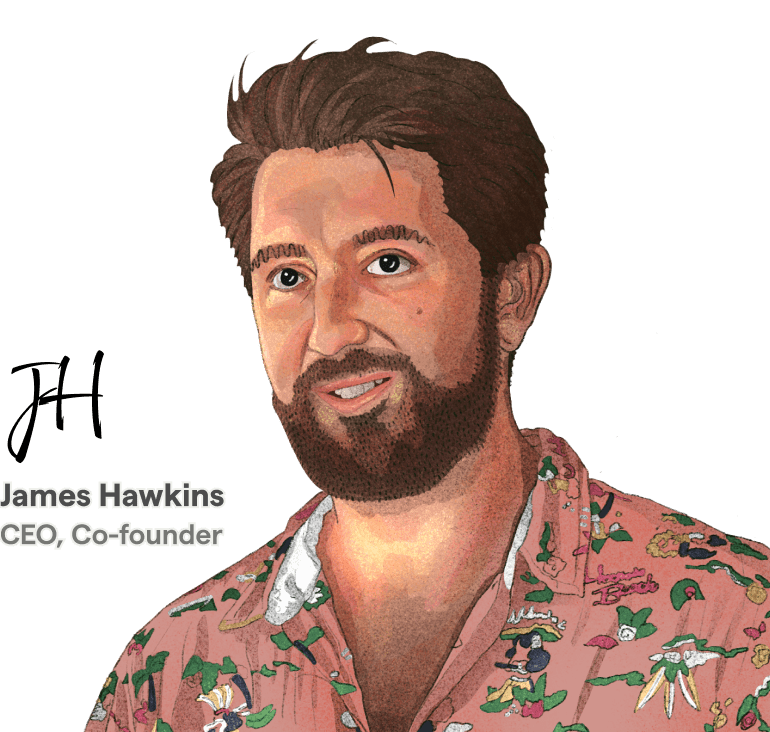
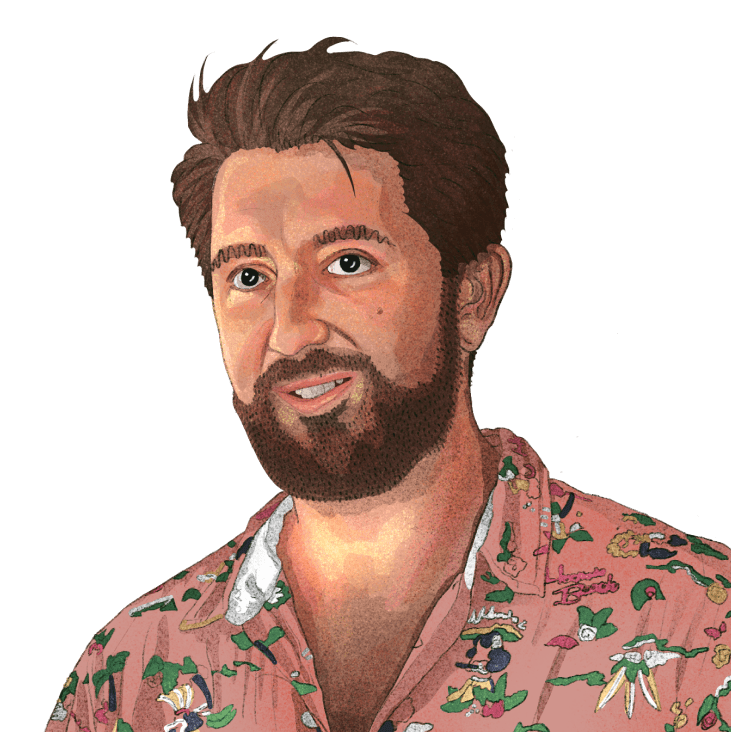
making "our story" work in dark mode

Changed region(s): [[0.0, 0.0301, 1.0, 1.0], [0.0, 0.4809, 0.1505, 0.6311]]

diff --git a/src/components/About/AboutStory/images/signatures.tsx b/src/components/About/AboutStory/images/signatures.tsx
@@ -1,0 +1,30 @@
+import React from 'react'
+
+export const James = ({ className = '', ...other }: { className?: string }): JSX.Element => (
+    <svg
+        className={`fill-current ${className}`}
+        fill="none"
+        xmlns="http://www.w3.org/2000/svg"
+        width="86"
+        height="52"
+        {...other}
+    >
+        <path d="M2.82 7.072c-.063 0-.095-.112-.095-.336 0-.288.032-.64.096-1.056.096-.416.192-.784.288-1.104.128-.352.24-.544.336-.576 1.248-.544 2.832-1.04 4.752-1.488a50.496 50.496 0 0 1 6.24-1.104 49.037 49.037 0 0 1 6.336-.432c.928 0 1.904.048 2.928.144 1.056.096 1.936.224 2.64.384.736.16 1.104.352 1.104.576 0 .032-.032.048-.096.048a51.01 51.01 0 0 0-2.304-.048c-.8-.032-1.632-.048-2.496-.048-2.368 0-4.8.24-7.296.72a45.16 45.16 0 0 0-6.96 1.824c-2.176.736-3.984 1.568-5.424 2.496H2.82Zm4.417 44.496a4.106 4.106 0 0 1-1.728-.912c-.512-.416-.768-.848-.768-1.296v-.192l.096-.192c0-.064.016-.096.048-.096h-.048c-.256 0-.464-.064-.624-.192-1.184-.832-2.048-1.808-2.592-2.928-.544-1.12-.816-2.336-.816-3.648 0-1.632.352-3.376 1.056-5.232.704-1.824 1.664-3.664 2.88-5.52a47.152 47.152 0 0 1 4.128-5.472 59.321 59.321 0 0 1 4.8-4.992 60.602 60.602 0 0 0 .384-6.768 46.56 46.56 0 0 0-.288-5.328c-.192-1.696-.496-3.2-.912-4.512 0-.16.288-.24.864-.24.544 0 1.12.112 1.728.336.64.224 1.008.64 1.104 1.248.128.8.224 1.648.288 2.544.064.864.096 1.76.096 2.688 0 1.216-.048 2.48-.144 3.792a54.666 54.666 0 0 1-.336 3.888 41.035 41.035 0 0 1 4.176-2.88c1.376-.832 2.64-1.44 3.792-1.824a1.41 1.41 0 0 1 .336-.048.906.906 0 0 1 .288-.048c.416 0 .624.112.624.336 0 .096-.08.208-.24.336a33.478 33.478 0 0 0-4.704 2.496 42.462 42.462 0 0 0-4.464 3.216c-.384 2.912-.88 5.84-1.488 8.784a177.54 177.54 0 0 1-1.92 8.256 264.453 264.453 0 0 1-1.872 6.96 94.478 94.478 0 0 1-1.008 3.408c-.256.928-.592 1.696-1.008 2.304-.384.64-.96 1.216-1.728 1.728ZM5.46 47.584c1.824-4.032 3.552-8.368 5.184-13.008.64-1.856 1.2-3.792 1.68-5.808.48-2.048.848-4.096 1.104-6.144a48.94 48.94 0 0 0-5.52 6.336c-1.632 2.208-2.912 4.4-3.84 6.576-.928 2.176-1.392 4.208-1.392 6.096 0 1.184.224 2.288.672 3.312.448 1.024 1.152 1.904 2.112 2.64ZM44.374 35.248c-.192 0-.48-.08-.864-.24a4.441 4.441 0 0 1-1.104-.672c-.32-.256-.544-.544-.672-.864-.224-.544-.368-1.296-.432-2.256a50.971 50.971 0 0 1-.096-3.264v-1.824c0-.64.016-1.28.048-1.92-.384.736-.912 1.552-1.584 2.448-.64.896-1.312 1.76-2.016 2.592-.704.832-1.36 1.52-1.968 2.064-.576.512-.992.768-1.248.768-.352 0-.736-.128-1.152-.384-.416-.288-.704-.592-.864-.912 0-.736.096-1.744.288-3.024.192-1.28.4-2.592.624-3.936.256-1.376.48-2.544.672-3.504a95.085 95.085 0 0 1-1.968 2.928 45.216 45.216 0 0 1-2.256 2.976c-.768.896-1.552 1.648-2.352 2.256-.768.576-1.488.864-2.16.864-.672 0-1.2-.224-1.584-.672a2.543 2.543 0 0 1-.576-1.632c0-.16.032-.368.096-.624a11.598 11.598 0 0 1 1.68-4.128 18.17 18.17 0 0 1 2.928-3.456c1.12-.992 2.224-1.776 3.312-2.352 1.088-.576 2.016-.864 2.784-.864a3.6 3.6 0 0 1 1.632.384c.544.224 1.056.608 1.536 1.152a.46.46 0 0 1 .144.336c0 .16-.096.32-.288.48a55.714 55.714 0 0 0-.72 2.784c-.224 1.056-.448 2.16-.672 3.312a85.201 85.201 0 0 0-.48 3.12c-.128.96-.192 1.696-.192 2.208 0 .352.048.528.144.528.128 0 .448-.24.96-.72a35.057 35.057 0 0 0 1.824-1.872c.672-.768 1.328-1.536 1.968-2.304a49.806 49.806 0 0 0 1.536-1.92l.096-3.024a91.16 91.16 0 0 0 .048-2.832c0-.512-.016-.992-.048-1.44 0-.448-.016-.848-.048-1.2-.064-.064-.256-.112-.576-.144a8.108 8.108 0 0 0-.864-.144l-.384-.096c0-.064.24-.208.72-.432.512-.256 1.232-.384 2.16-.384.928 0 1.536.176 1.824.528.288.352.432.656.432.912v.288a.906.906 0 0 1-.048.288 44.696 44.696 0 0 0-.864 6.48 93.484 93.484 0 0 0-.144 3.6c.032-.096.176-.592.432-1.488.288-.928.752-2.368 1.392-4.32.512-1.632.928-2.688 1.248-3.168.32-.512.592-.784.816-.816a5.8 5.8 0 0 0 .528.192c.288.096.576.256.864.48.288.192.432.448.432.768v.096a68.663 68.663 0 0 0-.624 4.032c-.16 1.504-.24 2.96-.24 4.368 0 .896.032 1.728.096 2.496.096.768.256 1.392.48 1.872 0-.128.096-.544.288-1.248.224-.704.48-1.504.768-2.4.288-.928.56-1.808.816-2.64l.576-1.872c.256-.768.48-1.28.672-1.536.224-.256.528-.384.912-.384.544 0 .928.336 1.152 1.008.256.64.416 1.44.48 2.4s.112 1.92.144 2.88c.032.96.096 1.776.192 2.448.128.64.368.96.72.96.416 0 .848-.304 1.296-.912a17.5 17.5 0 0 0 1.296-2.208c.448-.832.848-1.552 1.2-2.16.352-.64.624-.96.816-.96.096 0 .144.08.144.24 0 .128-.048.336-.144.624a72.461 72.461 0 0 1-1.44 3.264c-.512 1.088-1.04 2-1.584 2.736-.544.736-1.12 1.104-1.728 1.104-.768 0-1.376-.224-1.824-.672-.32-.288-.576-.816-.768-1.584-.192-.8-.352-1.632-.48-2.496-.128-.864-.256-1.6-.384-2.208-.096-.64-.208-.96-.336-.96-.096 0-.24.288-.432.864-.16.544-.336 1.232-.528 2.064-.192.832-.384 1.68-.576 2.544-.16.832-.304 1.568-.432 2.208-.096.64-.144 1.04-.144 1.2 0 .384-.176.608-.528.672-.32.064-.736.096-1.248.096-.224 0-.448-.352-.672-1.056-.224-.736-.432-1.664-.624-2.784a58.191 58.191 0 0 1-.384-3.648 47.726 47.726 0 0 1-.144-3.552v-.96c0-.32.016-.608.048-.864-.288.896-.624 1.968-1.008 3.216a39.12 39.12 0 0 0-1.008 3.936 24.375 24.375 0 0 0-.384 4.368c0 .768.064 1.392.192 1.872.128.448.32.88.576 1.296a.426.426 0 0 1 .048.192c0 .096-.064.144-.192.144Zm-18.72-7.68c.448 0 1.008-.256 1.68-.768.704-.512 1.424-1.168 2.16-1.968.768-.8 1.504-1.648 2.208-2.544a26.878 26.878 0 0 0 1.872-2.544c.544-.832.928-1.504 1.152-2.016-.64 0-1.376.24-2.208.72-.832.448-1.68 1.04-2.544 1.776a18.5 18.5 0 0 0-2.4 2.352c-.736.832-1.328 1.648-1.776 2.448-.448.8-.672 1.488-.672 2.064 0 .32.176.48.528.48Z" />
+        <path d="M63.873 33.232c-1.088 0-1.936-.352-2.544-1.056-.576-.704-.976-1.6-1.2-2.688a19.852 19.852 0 0 1-.288-3.36c0-.768.032-1.488.096-2.16a55.45 55.45 0 0 1 .192-1.824c.16-1.312.368-2.576.624-3.792.256-1.216.496-2.256.72-3.12.256-.864.416-1.424.48-1.68.128-.448.368-.672.72-.672s.752.24 1.2.72c.448.448.768.816.96 1.104.736.224 1.456.496 2.16.816.704.288 1.28.608 1.728.96.48.352.72.736.72 1.152 0 .8-.336 1.6-1.008 2.4-.672.8-1.52 1.536-2.544 2.208a23.142 23.142 0 0 1-3.12 1.728 18.558 18.558 0 0 0-.144 2.304c0 1.28.16 2.4.48 3.36.32.96.864 1.44 1.632 1.44.672 0 1.312-.24 1.92-.72a8.77 8.77 0 0 0 1.776-1.824 21.616 21.616 0 0 0 1.44-2.208c.448-.768.784-1.408 1.008-1.92.064-.192.208-.288.432-.288.128 0 .192.144.192.432 0 .256-.192.8-.576 1.632a35.882 35.882 0 0 1-1.2 2.208 17.133 17.133 0 0 1-1.152 1.776 13.52 13.52 0 0 1-2.016 2.064 3.955 3.955 0 0 1-2.688 1.008Zm-.96-10.608a13.65 13.65 0 0 0 2.976-2.16c.896-.864 1.344-1.792 1.344-2.784 0-.352-.272-.704-.816-1.056a7.014 7.014 0 0 0-1.824-.96 30.05 30.05 0 0 0-1.008 3.264 51.333 51.333 0 0 0-.672 3.696ZM74.562 31.696c-.48 0-1.024-.064-1.632-.192a8.557 8.557 0 0 1-1.536-.576c-.416-.256-.624-.496-.624-.72 0-.512.48-.768 1.44-.768.544 0 1.184-.112 1.92-.336a20.855 20.855 0 0 0 2.016-.72c.64-.288 1.056-.496 1.248-.624-.128-.192-.432-.48-.912-.864a30.83 30.83 0 0 1-1.584-1.488 11.235 11.235 0 0 1-1.536-1.92 4.795 4.795 0 0 1-.624-2.4c0-.896.24-1.728.72-2.496.48-.8 1.072-1.52 1.776-2.16a17.342 17.342 0 0 1 2.208-1.728 42.54 42.54 0 0 1 1.968-1.248c.224-.128.464-.192.72-.192.512 0 .992.176 1.44.528.48.352.72.688.72 1.008 0 .032-.032.112-.096.24-.256.288-.544.736-.864 1.344a17.147 17.147 0 0 0-.768 1.92c-.224.64-.336 1.232-.336 1.776 0 .608-.128.912-.384.912-.128 0-.224-.128-.288-.384a2.976 2.976 0 0 1-.096-.72c0-.64.096-1.328.288-2.064.224-.736.368-1.264.432-1.584-.384 0-.912.256-1.584.768-.64.48-1.296 1.088-1.968 1.824a15.032 15.032 0 0 0-1.728 2.16c-.448.704-.672 1.28-.672 1.728 0 .608.208 1.168.624 1.68.416.48.928.928 1.536 1.344.64.416 1.232.864 1.776 1.344.32-.128.816-.352 1.488-.672a64.92 64.92 0 0 1 2.112-1.056c.768-.384 1.44-.704 2.016-.96.608-.256 1.008-.384 1.2-.384.064 0 .096.016.096.048 0 .224-.24.512-.72.864s-1.072.72-1.776 1.104c-.704.384-1.408.752-2.112 1.104-.672.352-1.2.624-1.584.816.096.288.144.576.144.864 0 .672-.24 1.216-.72 1.632-.448.416-1.024.736-1.728.96a7.308 7.308 0 0 1-2.016.288Z" />
+    </svg>
+)
+
+export const Tim = ({ className = '', ...other }: { className?: string }): JSX.Element => (
+    <svg
+        className={`fill-current ${className}`}
+        fill="none"
+        xmlns="http://www.w3.org/2000/svg"
+        width="57"
+        height="44"
+        {...other}
+    >
+        <path d="M13.483 43.096c-.928 0-1.712-.176-2.352-.528-.608-.32-1.088-.656-1.44-1.008-.352-.352-.56-.576-.624-.672-.064-.128-.096-.208-.096-.24 0-.16.096-.24.288-.24.192 0 .528.16 1.008.48.512.352 1.328.528 2.448.528.544 0 1.104-.096 1.68-.288a4.058 4.058 0 0 0 1.584-.864c.832-.768 1.568-1.92 2.208-3.456.64-1.568 1.2-3.408 1.68-5.52.512-2.112.944-4.4 1.296-6.864.352-2.464.64-4.992.864-7.584.256-2.592.448-5.136.576-7.632a.534.534 0 0 0-.24-.048c-.224.576-.448 1.2-.672 1.872-.224.672-.384 1.008-.48 1.008-.032 0-.048-.096-.048-.288 0-.192.048-.512.144-.96.096-.48.208-1.088.336-1.824a300.911 300.911 0 0 1-7.296-1.728c-2.4-.64-4.592-1.248-6.576-1.824.288.288.576.56.864.816.288.256.432.432.432.528 0 .032-.032.048-.096.048-.352 0-.864-.096-1.536-.288-.64-.224-1.36-.48-2.16-.768-.8-.32-1.568-.624-2.304-.912-.704-.32-1.296-.592-1.776-.816-.448-.256-.672-.4-.672-.432 0-.32.112-.736.336-1.248.192-.512.464-.976.816-1.392.352-.416.704-.624 1.056-.624.032 0 .064.016.096.048h.096c3.04.992 6.208 2.016 9.504 3.072a366.61 366.61 0 0 0 9.744 2.976l.672-3.648c.064-.448.352-.768.864-.96a5.154 5.154 0 0 1 1.728-.288c.64 0 1.04.112 1.2.336.192.224.288.592.288 1.104v.528c0 .192-.016.384-.048.576l-.336 3.552c3.136.8 6.032 1.472 8.688 2.016 2.656.512 4.848.768 6.576.768 1.504 0 2.512-.208 3.024-.624.544-.448.816-1.056.816-1.824 0-1.024-.192-1.76-.576-2.208-.384-.448-.576-.736-.576-.864 0-.032.016-.048.048-.048.096 0 .208.048.336.144.16.064.416.256.768.576.352.288.672.688.96 1.2.32.48.48 1.104.48 1.872 0 .96-.288 1.712-.864 2.256-.576.512-1.36.88-2.352 1.104-.96.192-2.016.288-3.168.288-1.376 0-2.8-.096-4.272-.288-1.44-.192-2.672-.4-3.696-.624-.992-.192-2.032-.4-3.12-.624-1.056-.224-2.16-.464-3.312-.72-.256 2.176-.56 4.432-.912 6.768-.352 2.336-.72 4.56-1.104 6.672a118.08 118.08 0 0 1-1.104 5.376 92.56 92.56 0 0 1-.816 2.88 38.35 38.35 0 0 1-1.344 3.744 23.728 23.728 0 0 1-1.92 3.696c-.704 1.152-1.536 2.096-2.496 2.832-.928.736-1.968 1.104-3.12 1.104Z" />
+        <path d="M32.833 13.24c-.192 0-.4-.032-.624-.096l-.576-.288a.456.456 0 0 1-.192-.384c0-.288.176-.64.528-1.056a4.74 4.74 0 0 1 1.344-1.152c.544-.32 1.072-.48 1.584-.48.288 0 .432.08.432.24 0 .128-.144.288-.432.48a2.168 2.168 0 0 0-.768 1.056c-.16.448-.32.848-.48 1.2-.16.32-.432.48-.816.48ZM30.96 36.664c-.896 0-1.504-.4-1.824-1.2-.32-.832-.48-1.92-.48-3.264 0-1.248.064-2.56.192-3.936.16-1.408.352-2.72.576-3.936.256-1.248.544-2.256.864-3.024.32-.8.64-1.2.96-1.2.352 0 .656.176.912.528.288.32.512.688.672 1.104.192.416.288.752.288 1.008-.192.448-.432 1.168-.72 2.16-.256.96-.512 2.016-.768 3.168l-.624 3.12c-.16.928-.24 1.584-.24 1.968 0 1.152.304 1.728.912 1.728.256 0 .512-.064.768-.192.416-.192.848-.592 1.296-1.2.48-.608.944-1.296 1.392-2.064.448-.8.864-1.568 1.248-2.304a83.14 83.14 0 0 1 .96-1.872c.256-.512.416-.768.48-.768.128 0 .192.128.192.384 0 .288-.112.752-.336 1.392a13.79 13.79 0 0 1-.864 1.872c-.256.48-.576 1.088-.96 1.824a26.401 26.401 0 0 1-1.296 2.208 7.93 7.93 0 0 1-1.632 1.776c-.608.48-1.264.72-1.968.72Z" />
+        <path d="M39.837 40.6c-.256 0-.672-.24-1.248-.72-.576-.448-.944-.976-1.104-1.584-.224-.8-.368-1.856-.432-3.168a88.066 88.066 0 0 1-.096-4.272c0-1.632.016-3.296.048-4.992.032-1.728.048-3.312.048-4.752v-1.92c0-.608-.032-1.136-.096-1.584-.064-.064-.256-.112-.576-.144a8.108 8.108 0 0 0-.864-.144l-.384-.096c0-.064.24-.208.72-.432.512-.256 1.232-.384 2.16-.384.928 0 1.536.176 1.824.528.288.352.432.656.432.912v.288a.906.906 0 0 1-.048.288 44.696 44.696 0 0 0-.864 6.48 93.484 93.484 0 0 0-.144 3.6c.032-.096.176-.592.432-1.488.288-.928.752-2.368 1.392-4.32.512-1.632.928-2.688 1.248-3.168.32-.512.592-.784.816-.816a5.8 5.8 0 0 0 .528.192c.288.096.576.256.864.48.288.192.432.448.432.768v.096a68.663 68.663 0 0 0-.624 4.032c-.16 1.504-.24 2.96-.24 4.368 0 .896.032 1.728.096 2.496.096.768.256 1.392.48 1.872 0-.128.096-.544.288-1.248.224-.704.48-1.504.768-2.4.288-.928.56-1.808.816-2.64l.576-1.872c.256-.768.48-1.28.672-1.536.224-.256.528-.384.912-.384.544 0 .928.336 1.152 1.008.256.64.416 1.44.48 2.4s.112 1.92.144 2.88c.032.96.096 1.776.192 2.448.128.64.368.96.72.96.416 0 .848-.304 1.296-.912a17.5 17.5 0 0 0 1.296-2.208c.448-.832.848-1.552 1.2-2.16.352-.64.624-.96.816-.96.096 0 .144.08.144.24 0 .128-.048.336-.144.624a72.461 72.461 0 0 1-1.44 3.264c-.512 1.088-1.04 2-1.584 2.736-.544.736-1.12 1.104-1.728 1.104-.768 0-1.376-.224-1.824-.672-.32-.288-.576-.816-.768-1.584-.192-.8-.352-1.632-.48-2.496-.128-.864-.256-1.6-.384-2.208-.096-.64-.208-.96-.336-.96-.096 0-.24.288-.432.864-.16.544-.336 1.232-.528 2.064-.192.832-.384 1.68-.576 2.544-.16.832-.304 1.568-.432 2.208-.096.64-.144 1.04-.144 1.2 0 .384-.176.608-.528.672-.32.064-.736.096-1.248.096-.224 0-.448-.352-.672-1.056-.224-.736-.432-1.664-.624-2.784a58.191 58.191 0 0 1-.384-3.648 47.726 47.726 0 0 1-.144-3.552v-.96c0-.32.016-.608.048-.864-.512 1.472-1.04 3.264-1.584 5.376-.544 2.08-.816 4.336-.816 6.768 0 .992.048 1.92.144 2.784.096.864.256 1.536.48 2.016a.534.534 0 0 1 .048.24c0 .128-.064.192-.192.192Z" />
+    </svg>
+)

diff --git a/src/components/About/AboutStory/index.tsx b/src/components/About/AboutStory/index.tsx
@@ -3,6 +3,7 @@ import { StaticImage } from 'gatsby-plugin-image'
 import GitHubButton from 'react-github-btn'
 import { YCBadge } from './yc-badge'
 import { CallToAction } from 'components/CallToAction'
+import { James, Tim } from './images/signatures'
 
 export const AboutStory = () => {
     return (
@@ -38,7 +39,7 @@ export const AboutStory = () => {
                 </div>
             </div>
             <aside className="grow-0 shrink-0 lg:basis-[calc(730px-4rem)] relative">
-                <div className="hidden md:flex justify-end">
+                <div className="hidden md:flex justify-end text-primary dark:text-primary-dark">
                     <YCBadge className="w-[95px] h-[63px] md:mr-12 lg:top-0" />
                 </div>
                 <div className="flex justify-end relative">
@@ -50,9 +51,9 @@ export const AboutStory = () => {
                         objectFit="contain"
                         className="rotate-2 -mb-8 md:-mb-4 md:-right-4 lg:right-0 -mx-4 md:mx-0 box-border md:w-[500px] lg:w-auto md:h-full lg:h-auto"
                     />
-                    <div className="bg-gradient-to-b from-transparent to-tan absolute w-full h-[60%] md:h-full md:top-4em lg:top-[initial] lg:h-[60%] bottom-0" />
+                    <div className="bg-gradient-to-b from-transparent to-tan dark:to-dark absolute w-full h-[60%] md:h-full md:top-12 lg:top-[initial] lg:h-[60%] bottom-0" />
                 </div>
-                <div className="absolute -bottom-8 lg:-bottom-16 left-4 md:-left-8 lg:-left-16">
+                <div className="absolute -bottom-8 lg:-bottom-16 left-4 md:-left-4 lg:-left-4">
                     <StaticImage
                         breakpoints={[750, 1080, 1366, 1920]}
                         src="./images/james.png"
@@ -65,18 +66,28 @@ export const AboutStory = () => {
                         className="w-[55vw] md:w-[300px] lg:w-auto"
                     />
                 </div>
-                <div className="absolute bottom-0 lg:-bottom-2 right-4 md:right-4 lg:right-8">
+                <div className="text-primary dark:text-primary-dark absolute bottom-6 md:bottom-12 lg:bottom-6 left-4 md:-left-16 leading-tight">
+                    <James />
+                    <strong>James Hawkins</strong>
+                    <span className="block text-sm">CEO, Co-founder</span>
+                </div>
+                <div className="absolute bottom-0 lg:-bottom-2 right-0 sm:right-12 lg:right-8">
                     <StaticImage
                         breakpoints={[750, 1080, 1366, 1920]}
                         src="./images/tim.png"
-                        width={366}
+                        width={285}
                         height={320}
                         quality={100}
                         alt="Tim Glaser, CTO, Co-founder"
                         placeholder="none"
                         objectFit="contain"
-                        className="w-[50vw] md:w-[300px] lg:w-auto"
+                        className="w-[40vw] md:w-[230px] lg:w-auto"
                     />
+                </div>
+                <div className="absolute bottom-8 md:bottom-16 lg:bottom-16 -right-4 text-primary dark:text-primary-dark leading-tight">
+                    <Tim />
+                    <strong>Tim Glaser</strong>
+                    <span className="block text-sm">CTO, Co-founder</span>
                 </div>
             </aside>
         </section>

diff --git a/src/components/About/AboutStory/yc-badge.tsx b/src/components/About/AboutStory/yc-badge.tsx
@@ -16,7 +16,7 @@ export const YCBadge = ({ className }: { className: string }): JSX.Element => {
                 fill="#000"
             />
             <rect x=".5" y=".5" width="93.804" height="41" rx="1.5" stroke="#FB651E" />
-            <g opacity=".5" fill="#000">
+            <g opacity=".75" fill="currentColor">
                 <path d="M38.879 62h-1.066l-.52-6.539a29.367 29.367 0 0 1-.065-1.521 20.73 20.73 0 0 1-.351 1.404L34.966 62h-.91l-1.768-6.331a28.81 28.81 0 0 1-.442-1.742c-.026.598-.061 1.174-.104 1.729L31.248 62H30.22l.78-8.918h1.56l1.625 5.824c.147.529.264 1.049.35 1.56.13-.659.239-1.144.326-1.456l1.677-5.928h1.573L38.879 62ZM44.944 58.932H40.9v.156c0 .641.1 1.114.299 1.417.347.529.884.793 1.612.793a2.26 2.26 0 0 0 1.586-.611l.39.65c-.59.537-1.317.806-2.184.806-.962 0-1.694-.342-2.197-1.027-.45-.615-.676-1.421-.676-2.418 0-.91.22-1.677.663-2.301.503-.702 1.187-1.053 2.054-1.053.72 0 1.304.238 1.755.715.32.338.533.763.637 1.274.07.33.104.815.104 1.456v.143Zm-1.08-.767c-.008-.615-.099-1.079-.272-1.391-.234-.416-.633-.624-1.196-.624-.945 0-1.443.672-1.495 2.015h2.964ZM54.512 62h-1.04v-4.784c0-.633-.277-.949-.832-.949-.32 0-.628.117-.923.351-.121.095-.347.277-.676.546l-.117.104V62h-1.027v-4.602c0-.355-.052-.615-.156-.78-.121-.208-.351-.312-.69-.312-.467 0-1.017.286-1.65.858V62h-.975v-4.823c0-.65-.078-1.174-.234-1.573l.988-.234c.156.312.234.615.234.91v.052c.624-.65 1.252-.975 1.885-.975.737 0 1.24.36 1.508 1.079.676-.72 1.37-1.079 2.08-1.079.494 0 .888.169 1.183.507.295.33.442.745.442 1.248V62ZM61.729 58.672c0 .919-.195 1.699-.585 2.34-.46.763-1.122 1.144-1.99 1.144-.32 0-.65-.078-.987-.234a2.158 2.158 0 0 1-.793-.624 2.43 2.43 0 0 1-.182.702h-1.014c.13-.286.195-.823.195-1.612v-6.149c0-.676-.087-1.187-.26-1.534l1.105-.221c.113.485.169 1.023.169 1.612v1.443c0 .373-.009.611-.026.715.59-.58 1.209-.871 1.859-.871.858 0 1.508.351 1.95 1.053.373.58.559 1.326.559 2.236Zm-1.131-.065c0-1.534-.533-2.301-1.6-2.301-.658 0-1.2.282-1.624.845v3.328c.399.52.932.78 1.599.78 1.083 0 1.625-.884 1.625-2.652ZM68.07 58.932h-4.044v.156c0 .641.1 1.114.3 1.417.346.529.883.793 1.611.793a2.26 2.26 0 0 0 1.586-.611l.39.65c-.59.537-1.317.806-2.184.806-.962 0-1.694-.342-2.197-1.027-.45-.615-.676-1.421-.676-2.418 0-.91.221-1.677.663-2.301.503-.702 1.188-1.053 2.054-1.053.72 0 1.305.238 1.755.715.32.338.533.763.637 1.274.07.33.104.815.104 1.456v.143Zm-1.08-.767c-.008-.615-.1-1.079-.273-1.391-.234-.416-.632-.624-1.196-.624-.945 0-1.443.672-1.495 2.015h2.964ZM72.762 55.396l-.416 1.105a1.003 1.003 0 0 0-.286-.052c-.26 0-.52.078-.78.234a1.442 1.442 0 0 0-.559.559c-.078.147-.117.381-.117.702V62H69.59v-4.94c0-.598-.078-1.075-.234-1.43l1.014-.273c.147.32.221.641.221.962v.091c.512-.72 1.118-1.079 1.82-1.079.104 0 .221.022.351.065Z" />
             </g>
             <defs>

diff --git a/src/components/MainNav/index.tsx b/src/components/MainNav/index.tsx
@@ -150,7 +150,7 @@ export default function MainNav() {
                                 return (
                                     <ul className="list-none text-left m-0 p-0 pb-[3px] space-y-[2px] w-[200px]">
                                         <li className="bg-border/20 dark:bg-border-dark/20 border-b border-light dark:border-dark text-[13px] px-2 py-1.5 text-primary/50 dark:text-primary-dark/60 z-20 m-0 !mb-[3px] font-semibold">
-                                            Login to...
+                                            Go to...
                                         </li>
                                         <li className="px-1">
                                             <Link
@@ -164,7 +164,7 @@ export default function MainNav() {
                                         <li className="px-1">
                                             <Link
                                                 className="group/item text-sm px-2 py-2 rounded-sm hover:bg-border dark:hover:bg-border-dark block"
-                                                to="/community"
+                                                to="/questions"
                                             >
                                                 <Chat className="opacity-50 group-hover/item:opacity-75 inline-block mr-2 w-6" />
                                                 Community

diff --git a/src/components/Layout/context.tsx b/src/components/Layout/context.tsx
@@ -10,6 +10,7 @@ import {
     Message,
     Newspaper,
     Profile,
+    Receipt,
     RewindPlay,
     Stack,
     Toggle,
@@ -764,6 +765,12 @@ const menu = [
         name: 'Pricing',
         url: '/pricing',
         internal: [
+            {
+                name: 'All products',
+                Icon: Receipt,
+                color: 'red',
+                url: '/pricing',
+            },
             {
                 name: 'Product analytics',
                 Icon: Graph,

diff --git a/src/components/About/AboutAnchorScrollNavbar/index.tsx b/src/components/About/AboutAnchorScrollNavbar/index.tsx
@@ -29,7 +29,7 @@ const menu = [
 export const AboutAnchorScrollNavbar = () => {
     const breakpoints = useBreakpoint()
     return (
-        <div className="bg-tan/90 backdrop-blur py-2 sticky -top-1 z-10 mb-6 about-nav">
+        <div className="hidden bg-tan/90 backdrop-blur py-2 sticky -top-1 z-10 mb-6 about-nav">
             <AnchorScrollNavbar autoScroll={breakpoints.md} className="max-w-screen-xl mx-auto lg:px-8" menu={menu} />
         </div>
     )

diff --git a/tailwind.config.js b/tailwind.config.js
@@ -125,6 +125,7 @@ module.exports = {
                 'accent-dark': '#232429',
                 border: '#D0D1C9',
                 'border-dark': '#4A4C52',
+                light: '#EEEFE9',
                 dark: '#1D1F27',
 
                 blue: '#2F80FA',
